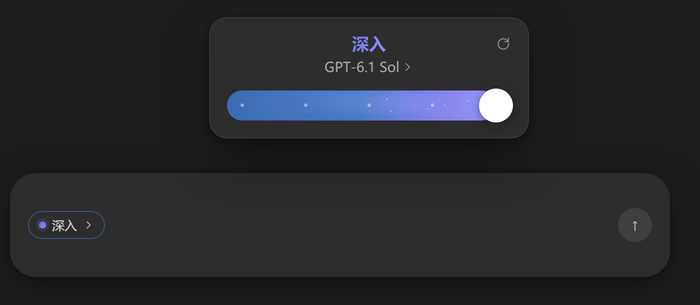
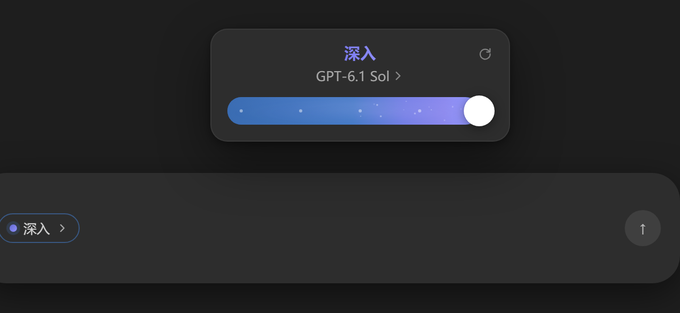
tweak: 卡片再收一档
宽 320→282、拖柄 34→29、轨道 30→26、标题 17→15px、模型名 13.5→12.5px、
内距 15/17→13/15、圆角 18→16、圆点 3.5→3px；模型列表行高 34→31、字号 13→12.5、
说明气泡 236→210。浮尘与溅射再缩一档（远景 0.85-1.6px、中景 1.8-2.6px、近景 3.0-3.6px，
两轴振幅同比收窄）。实测渲染：卡片 280x106 CSS、拖柄 29 CSS px。

diff --git a/lib/client.js b/lib/client.js
@@ -32,12 +32,12 @@ window.__ModuleLoader__.load({
 
     /* 几何：卡片 / 轨道 / 拖柄的尺寸集中在这里，CSS 与拖拽计算共用同一组常量，
        避免两头各写一份数字对不上。 */
-    const CARD_W = 320
-    const CARD_PAD = 17
-    const TRACK_H = 30
-    const KNOB_D = 34
+    const CARD_W = 282
+    const CARD_PAD = 15
+    const TRACK_H = 26
+    const KNOB_D = 29
     const TRACK_INSET = TRACK_H / 2
-    const TIP_W = 236
+    const TIP_W = 210
     /** 第 ratio 档时，拖柄圆心 / 圆点相对轨道的 left 值（两端各留半个轨道高）。 */
     const posAt = (ratio) => 'calc(' + TRACK_INSET + 'px + (100% - ' + TRACK_H + 'px) * ' + ratio + ')'
 
@@ -107,27 +107,27 @@ body:not([data-ds-dark-theme]) .dshcps-tip{
 /* ---------- 卡片 ---------- */
 .dshcps-pop{
   position:fixed; z-index:1200; width:${CARD_W}px; box-sizing:border-box;
-  padding:15px ${CARD_PAD}px ${CARD_PAD}px; border-radius:18px; border:1px solid var(--dshcps-line);
+  padding:13px ${CARD_PAD}px ${CARD_PAD}px; border-radius:16px; border:1px solid var(--dshcps-line);
   background:var(--dshcps-card); color:var(--dshcps-row); box-shadow:var(--dshcps-shadow);
   animation:dshcps-pop-in .17s cubic-bezier(.2,0,0,1);
 }
 @keyframes dshcps-pop-in{from{opacity:0;transform:translateY(8px) scale(.985)}to{opacity:1;transform:none}}
 
 .dshcps-head{position:relative;text-align:center}
-.dshcps-title{font-size:17px;font-weight:600;line-height:1.25;letter-spacing:.01em;color:var(--dshcps-accent);transition:color .18s ease}
+.dshcps-title{font-size:15px;font-weight:600;line-height:1.25;letter-spacing:.01em;color:var(--dshcps-accent);transition:color .18s ease}
 .dshcps-title.is-ultra{
   background:linear-gradient(92deg,#3b3ad0 0%,#8f8ffa 58%,#6169d1 100%);
   -webkit-background-clip:text; background-clip:text; -webkit-text-fill-color:transparent; color:transparent;
 }
 .dshcps-sub{
-  margin-top:2px; display:inline-flex; align-items:center; gap:2px; padding:2px 2px;
-  border:0; background:none; font:inherit; font-size:13.5px; color:var(--dshcps-sub);
+  margin-top:2px; display:inline-flex; align-items:center; gap:2px; padding:1px 2px;
+  border:0; background:none; font:inherit; font-size:12.5px; color:var(--dshcps-sub);
   cursor:pointer; border-radius:6px; transition:color .15s ease;
 }
 .dshcps-sub:hover{color:var(--dshcps-sub-hover)}
 .dshcps-reset{
-  position:absolute; top:-2px; right:-5px; width:25px; height:25px; display:grid; place-items:center;
-  border:0; background:none; padding:0; color:var(--dshcps-icon); cursor:pointer; border-radius:8px;
+  position:absolute; top:-2px; right:-4px; width:23px; height:23px; display:grid; place-items:center;
+  border:0; background:none; padding:0; color:var(--dshcps-icon); cursor:pointer; border-radius:7px;
   transition:background .15s ease,color .15s ease;
 }
 .dshcps-reset:hover{background:var(--dshcps-row-hover);color:var(--dshcps-sub-hover)}
@@ -135,7 +135,7 @@ body:not([data-ds-dark-theme]) .dshcps-tip{
 
 /* ---------- 滑杆 ---------- */
 .dshcps-track{
-  position:relative; margin-top:13px; height:${TRACK_H}px; border-radius:999px;
+  position:relative; margin-top:11px; height:${TRACK_H}px; border-radius:999px;
   background:var(--dshcps-track); cursor:pointer; touch-action:none;
   box-shadow:inset 0 1px 0 rgba(255,255,255,.05);
 }
@@ -237,7 +237,7 @@ body:not([data-ds-dark-theme]) .dshcps-tip{
   .dshcps-burst{display:none}
 }
 .dshcps-dot{
-  position:absolute; top:50%; width:3.5px; height:3.5px; margin:-1.75px 0 0 -1.75px; border-radius:50%;
+  position:absolute; top:50%; width:3px; height:3px; margin:-1.5px 0 0 -1.5px; border-radius:50%;
   background:var(--dshcps-dot); transition:background .18s ease;
 }
 .dshcps-dot.is-passed{background:rgba(255,255,255,.45)}
@@ -251,29 +251,29 @@ body:not([data-ds-dark-theme]) .dshcps-tip{
 .dshcps-track.is-locked{cursor:default;opacity:.6}
 
 /* ---------- 模型列表 ---------- */
-.dshcps-panel-title{padding:2px 2px 7px;font-size:12px;color:var(--dshcps-dim)}
+.dshcps-panel-title{padding:2px 2px 6px;font-size:11.5px;color:var(--dshcps-dim)}
 .dshcps-group{padding-top:3px}
-.dshcps-group-head{display:block;padding:7px 2px 4px}
-.dshcps-group-name{font-size:13px;font-weight:600;color:var(--dshcps-row);line-height:1.35}
-.dshcps-group-sub{font-size:11.5px;color:var(--dshcps-dim);line-height:1.4}
+.dshcps-group-head{display:block;padding:6px 2px 3px}
+.dshcps-group-name{font-size:12.5px;font-weight:600;color:var(--dshcps-row);line-height:1.35}
+.dshcps-group-sub{font-size:11px;color:var(--dshcps-dim);line-height:1.4}
 .dshcps-row{
-  position:relative; display:flex; align-items:center; justify-content:space-between; gap:10px;
-  width:100%; height:34px; padding:0 9px; box-sizing:border-box; border:0; border-radius:9px;
-  background:none; font:inherit; font-size:13px; color:var(--dshcps-row); text-align:left; cursor:pointer;
+  position:relative; display:flex; align-items:center; justify-content:space-between; gap:9px;
+  width:100%; height:31px; padding:0 8px; box-sizing:border-box; border:0; border-radius:8px;
+  background:none; font:inherit; font-size:12.5px; color:var(--dshcps-row); text-align:left; cursor:pointer;
   transition:background .12s ease;
 }
 .dshcps-row:hover{background:var(--dshcps-row-hover)}
 .dshcps-row-name{overflow:hidden;text-overflow:ellipsis;white-space:nowrap}
-.dshcps-row-effort{flex:none;font-size:11.5px;color:var(--dshcps-dim)}
-.dshcps-check{flex:none;width:15px;height:15px;color:var(--dshcps-row)}
-.dshcps-empty{padding:9px 2px;font-size:12.5px;color:var(--dshcps-dim)}
+.dshcps-row-effort{flex:none;font-size:11px;color:var(--dshcps-dim)}
+.dshcps-check{flex:none;width:14px;height:14px;color:var(--dshcps-row)}
+.dshcps-empty{padding:8px 2px;font-size:12px;color:var(--dshcps-dim)}
 .dshcps-tip{
-  position:fixed; z-index:1201; max-width:${TIP_W}px; padding:7px 11px; border-radius:11px;
-  background:var(--dshcps-tip); color:var(--dshcps-tip-text); font-size:12px; line-height:1.5;
+  position:fixed; z-index:1201; max-width:${TIP_W}px; padding:6px 10px; border-radius:10px;
+  background:var(--dshcps-tip); color:var(--dshcps-tip-text); font-size:11.5px; line-height:1.5;
   box-shadow:var(--dshcps-shadow); pointer-events:none; animation:dshcps-pop-in .13s ease;
 }
-.dshcps-error{margin-top:7px;font-size:11.5px;color:var(--dsw-alias-state-error-primary,#e5484d)}
-.dshcps-note{margin-top:5px;font-size:11.5px;color:var(--dshcps-dim);text-align:center}
+.dshcps-error{margin-top:6px;font-size:11px;color:var(--dsw-alias-state-error-primary,#e5484d)}
+.dshcps-note{margin-top:4px;font-size:11px;color:var(--dshcps-dim);text-align:center}
 `
 
     if (typeof document !== 'undefined' && !document.querySelector('style[data-dshcps]')) {
@@ -367,7 +367,7 @@ body:not([data-ds-dark-theme]) .dshcps-tip{
       )
     }
 
-    function ChevronIcon({ size = 12 }) {
+    function ChevronIcon({ size = 11 }) {
       return h(
         'svg',
         {
@@ -388,7 +388,7 @@ body:not([data-ds-dark-theme]) .dshcps-tip{
       )
     }
 
-    function ResetIcon({ size = 15 }) {
+    function ResetIcon({ size = 13.5 }) {
       return h(
         'svg',
         { width: size, height: size, viewBox: '0 0 18 18', fill: 'none', 'aria-hidden': 'true' },
@@ -431,24 +431,24 @@ body:not([data-ds-dark-theme]) .dshcps-tip{
         let tx
         let ty
         if (kind === 'near') {
-          size = between(3.4, 4.0)
+          size = between(3.0, 3.6)
           opacity = between(0.28, 0.43)
-          ax = between(6, 9.5)
-          ay = between(2.6, 4.7)
+          ax = between(5.2, 8.3)
+          ay = between(2.3, 4.1)
           tx = between(10, 14)
           ty = between(7.5, 11)
         } else if (kind === 'mid') {
-          size = between(2.0, 2.9)
+          size = between(1.8, 2.6)
           opacity = between(0.5, 0.72)
-          ax = between(4.5, 7.5)
-          ay = between(2.2, 4.1)
+          ax = between(3.9, 6.5)
+          ay = between(1.9, 3.6)
           tx = between(12, 17)
           ty = between(9, 14)
         } else {
-          size = between(0.95, 1.8)
+          size = between(0.85, 1.6)
           opacity = between(0.3, 0.62)
-          ax = between(2.6, 5.5)
-          ay = between(1.6, 3.2)
+          ax = between(2.3, 4.8)
+          ay = between(1.4, 2.8)
           tx = between(15, 23)
           ty = between(11, 18)
         }
@@ -529,11 +529,11 @@ body:not([data-ds-dark-theme]) .dshcps-tip{
         for (let i = 0; i < count; i++) {
           // 角度偏上半圈 + 右侧，和原版一样主要往右上散
           const angle = (-Math.PI * 0.92) * random() + Math.PI * 0.06
-          const distance = 12 + random() * 22
+          const distance = 10 + random() * 19
           out.push({
             sx: (Math.cos(angle) * distance) / 1.1,
             sy: Math.sin(angle) * distance,
-            size: 1.1 + random() * 1.6,
+            size: 1.0 + random() * 1.3,
             opacity: 0.35 + random() * 0.3,
             delay: random() * 0.1,
           })

diff --git a/README.md b/README.md
@@ -40,8 +40,8 @@
 - **粒子会飘（不是只闪）**：每颗浮尘挂在两层锚点上，**X / Y 各跑一个独立周期**
   （X 10–23s、Y 7.5–18s，均 `ease-in-out` 闭合往返），合成弯曲轨迹 —— 既不是直线往返，
   也不会全体同步；粒子自身只做 5.3–9.1s 的**呼吸**（最低降到峰值的 60–78%），不再闪烁。
-- **三层景深**：18 颗远景（0.95–1.8px 小而实）、5 颗中景（2.0–2.9px，小实核 + 软边）、
-  1 颗近景（3.4–4.0px，大而虚）。用径向渐变软边代替动态 `blur`，静态绘制、只动
+- **三层景深**：18 颗远景（0.85–1.6px 小而实）、5 颗中景（1.8–2.6px，小实核 + 软边）、
+  1 颗近景（3.0–3.6px，大而虚）。用径向渐变软边代替动态 `blur`，静态绘制、只动
   `transform / opacity`。
 - **材质里有光**：两层静态径向柔光，其中一层以 11.7s 缓慢呼吸，负责「材质发光」而不是
   「白点堆叠」。
@@ -169,7 +169,7 @@ DSH 适配器返回的 `effort.name` 永远优先。只有当适配器只给出 
 - 目录里没有模型、或模型没有任何 reasoning 元数据时，滑杆不显示，胶囊退化为只读。
 - 会话被其它 DSH 写句柄占用时提交会失败，卡片下方显示错误文案（对应
   `session/writer-held`）。
-- 卡片宽度固定 320px（拖柄 34px / 轨道高 30px / 标题 17px）；窗口过窄时会自动左右夹紧，不会跑出视口。
+- 卡片宽度固定 282px（拖柄 29px / 轨道高 26px / 标题 15px）；窗口过窄时会自动左右夹紧，不会跑出视口。
 
 ## 开发与预览
 
